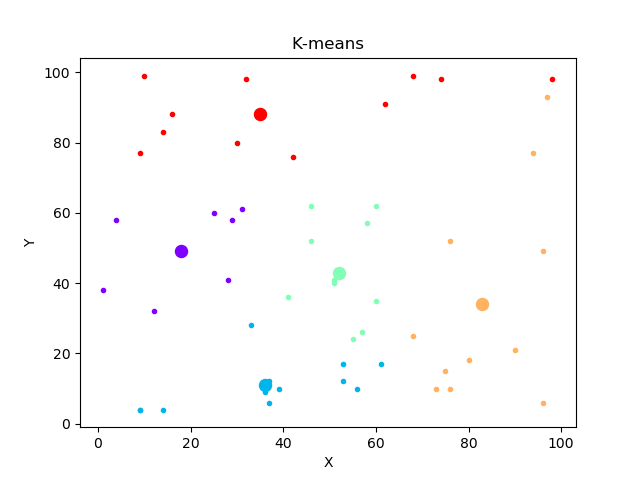
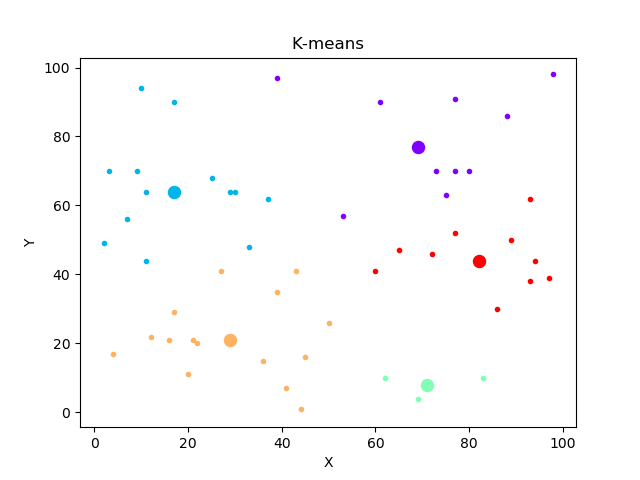
added sklean example

diff --git a/sklean-K-means.py b/sklean-K-means.py
@@ -1,0 +1,12 @@
+import numpy as np
+from sklearn.cluster import KMeans 
+
+r = lambda: np.random.randint(1, 100)
+X = [[r(), r()] for _ in range(50)]
+
+
+kmeans = KMeans(n_clusters=5)
+kmeans.fit(X)
+labels = kmeans.labels_
+
+print(labels)
